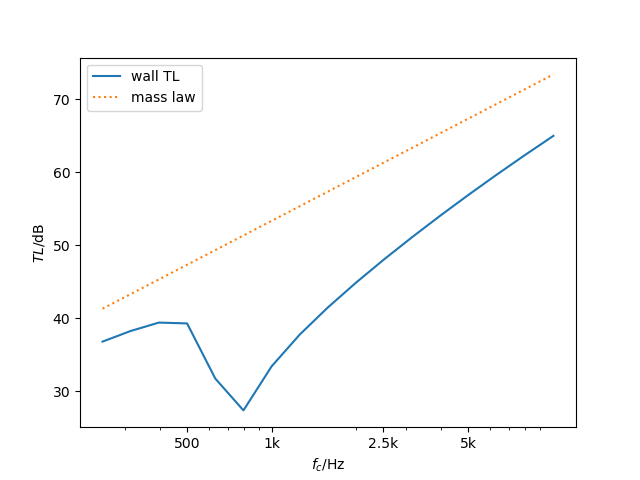
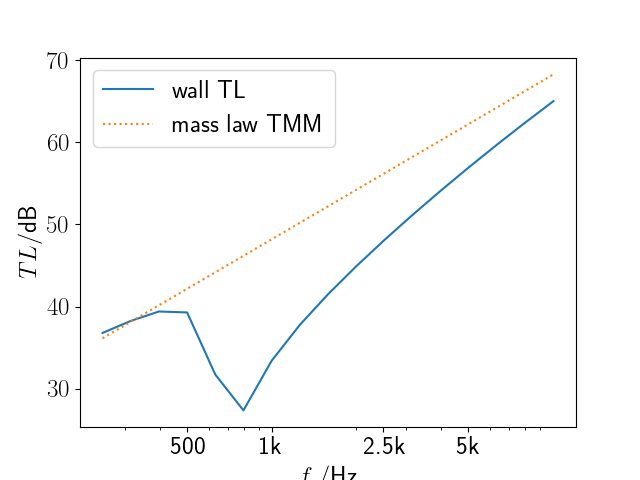
Minor bugs and images improved

diff --git a/pyva/systems/structure2Dsystems.py b/pyva/systems/structure2Dsystems.py
@@ -667,22 +667,25 @@ class Structure2DSystem(SEAsys.SEA_system):
     
     def w_random(self,omega,F):
         """
-        Single SEA plate subsystem response to rms force
+        Single SEA plate subsystem average squared displacement response to force
+
+        Output and input have similat scaling. Amplitude forces gived squared average amplitude.
 
         Parameters
         ----------
         omega : nd.arreay
             angular frequency
         F : float
-            rms force
+            force
 
         Returns
         -------
         float
-            random rms displacement.
+            random squared displacement.
 
         """
-        return F**2/(8.*self.area*np.sqrt(self.prop.B*self.prop.mass_per_area**3)*omega**3*self.prop.material.eta)
+        return F**2/(8.*self.area*np.sqrt(self.prop.B*self.prop.mass_per_area**3)\
+                     *omega**3*self.prop.material.eta)
     
 
 

diff --git a/doc/code/two_rooms_problem.py b/doc/code/two_rooms_problem.py
@@ -279,9 +279,9 @@ tau = (p2/p1)**2
 plt.figure(32)
 plt.semilogx(freq,-10*np.log10(tau),label = 'wall TL')
 #plt.semilogx(f,20*np.log10(tau_VA1),':',label = 'pure VA1')
-plt.semilogx(freq,-10*np.log10(mass_law(om)),':',label = 'mass law')
+#plt.semilogx(freq,-10*np.log10(mass_law(om)),':',label = 'mass law')
 #plt.semilogx(freq,20*np.log10(wall.prop.mass_per_area*freq)-48,':',label = 'mass law diffuse')
-#plt.semilogx(freq,-10*np.log10(tau_diff),':',label = 'mass law TMM')
+plt.semilogx(freq,-10*np.log10(tau_diff),':',label = 'mass law TMM')
 plt.xticks(fc[2:],fclabels[2:])
 plt.xlabel('$f_c/$Hz')
 plt.ylabel('$TL/$dB')

diff --git a/doc/source/infinite_layer_classes.rst b/doc/source/infinite_layer_classes.rst
@@ -83,7 +83,7 @@ it is implemented for this class. ::
     tau_mass0  = heavy_2kg7.transmission_coefficient(omega,0.)
     tau_mass30 = heavy_2kg7.transmission_coefficient(omega,30.*np.pi/180)
     
-.. _sec_plate_layer
+.. _sec_plate_layer:
     
 Plate Layer
 +++++++++++
@@ -152,7 +152,7 @@ and given :math:`k_x`. Details of the derivation are given in section 9.3.3 of [
 Fluid Layer Honeycomb
 +++++++++++++++++++++
 
-The honeycomb channels restrict the direction of propagation to pure z-propagation. Thus, in case of a honeycomb layer equation :ref:`fluid-transfer-matrix` is used with :math:`k_x=0`.
+The honeycomb channels restrict the direction of propagation to pure z-propagation. Thus, in case of a honeycomb layer equation :eq:`fluid-transfer-matrix` is used with :math:`k_x=0`.
 
 Solid Layer
 -----------
@@ -206,7 +206,7 @@ The transfer matrix reads:
       -{\bm Z}_s & 0 & 0 & 1 
     \end{bmatrix}
     
-Here, :math:`{\bm Z}_p` is the same as in equation :ref:`plate-transfer-matrix`.
+Here, :math:`{\bm Z}_p` is the same as in equation :eq:`plate-transfer-matrix`.
 :math:`{\bm Z}_s` is the in-plane impedance and read as. 
  
 .. math::

diff --git a/doc/source/property_classes.rst b/doc/source/property_classes.rst
@@ -344,8 +344,8 @@ Poroelastic materials are a combination of porous materials (here implemented as
 :class:`~pyva.properties.materialClasses.IsoMat` class is a subclass of this class.
 
 The theory of poroelastic material was established in the late 50ties by M.A. Biot. This is the reason why many people talk
-about Biot materials instead of poroelastics. It is worth mentioning that the main achievements where made on new models ans descriptions of porous materials where made recently.
-Whereas the theory for the coupled dynamics was established by Biot much earlier.
+about Biot materials instead of poroelastics. It is worth mentioning that the main achievements on new models and descriptions of porous materials where made recently.
+In contrast6 to this the theory for the coupled dynamics was established by Biot much earlier.
 A comprising description of most models and theories are given by Allard ([All2009]_).
 
 Due to the fact that both models are implemented there are no additional parameters required for this type of material. 

diff --git a/doc/source/hybrid_models.rst b/doc/source/hybrid_models.rst
@@ -11,7 +11,7 @@ The SEA reverberant fields create an additional diffuse field excitation to the 
 cause additional wave motion in the FEM systems.
 
 The topic is too complex for the pyva documentation. Details are given in the original paper from Langley
-[Lan2005]_  or in [Pei2022]_.
+[Lan2005]_  or in [Pei2022]_. A motivation for hybrid method is also given on my author website at `hybrid FEM/SEA introduction <https://docpeiffer.com/hybrid-fem-sea/>`_.
 
 The first example is similar to the two rooms example, but with a smaller plate as FEM system. In this case the impact of the 
 FEM system is just a change of the coupling dynamics. The second example deals with a deterministic force excitation on the

diff --git a/doc/source/sea_models.rst b/doc/source/sea_models.rst
@@ -2,7 +2,7 @@ SEA models
 ----------
 
 In Statistical Energy Analysis the vibroacoustic system is modelled as systems of coupled reverberant wave fields 
-that exchange energy. The method is described in in [Lyo1995]_ and [Pei2022]_.
+that exchange energy. The method is described in in [Lyo1995]_ and [Pei2022]_ in detail or briefly in `SEA introduction <https://docpeiffer.com/statistical-energy-analysis-sea/>`_.
 For the set-up of such models the database must be populated with system properties namely the geometry, the property determining
 the wave motion, the coupling physics and the sources. 
 
